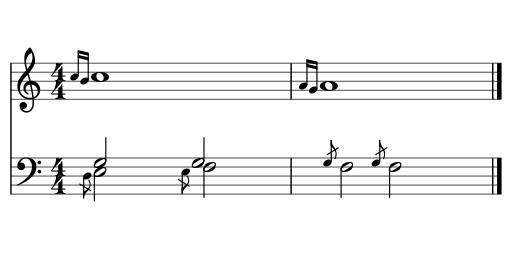
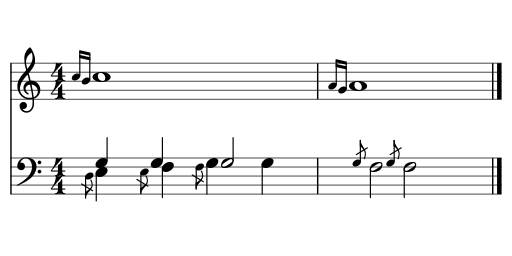
layout fix for unisons with grace notes in downstem voice
Former-commit-id: 36273a03cd832677d65ddf724238932c65d67028

diff --git a/libmscore/layout.cpp b/libmscore/layout.cpp
@@ -124,12 +124,18 @@ void Score::layoutChords1(Segment* segment, int staffIdx)
       int downDots = 0;
       bool upHooks = false;
       bool downHooks = false;
+      // also check for grace notes
+      bool upGrace = false;
+      bool downGrace = false;
 
       for (int track = startTrack; track < endTrack; ++track) {
             Element* e = segment->element(track);
             if (e && (e->type() == Element::Type::CHORD)) {
                   Chord* chord = static_cast<Chord*>(e);
+                  bool hasGraceBefore = false;
                   for (Chord* c : chord->graceNotes()) {
+                        if (c->isGraceBefore())
+                              hasGraceBefore = true;
                         // layout grace note noteheads
                         layoutChords2(c->notes(), c->up());
                         // layout grace note chords
@@ -142,6 +148,8 @@ void Score::layoutChords1(Segment* segment, int staffIdx)
                         maxUpMag = qMax(maxUpMag, chord->mag());
                         if (!upHooks)
                               upHooks = chord->hook();
+                        if (hasGraceBefore)
+                              upGrace = true;
                         }
                   else {
                         ++downVoices;
@@ -150,6 +158,8 @@ void Score::layoutChords1(Segment* segment, int staffIdx)
                         maxDownMag = qMax(maxDownMag, chord->mag());
                         if (!downHooks)
                               downHooks = chord->hook();
+                        if (hasGraceBefore)
+                              downGrace = true;
                         }
                   }
             }
@@ -385,7 +395,7 @@ void Score::layoutChords1(Segment* segment, int staffIdx)
                                     }
                               }
                         }
-                  else if (conflictUnison && separation == 0)
+                  else if (conflictUnison && separation == 0 && (!downGrace || upGrace))
                         downOffset = maxUpWidth + 0.3 * sp;
                   else if (conflictUnison)
                         upOffset = maxDownWidth + 0.3 * sp;
